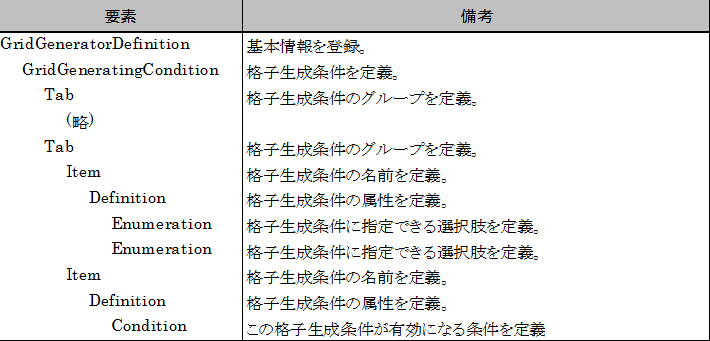
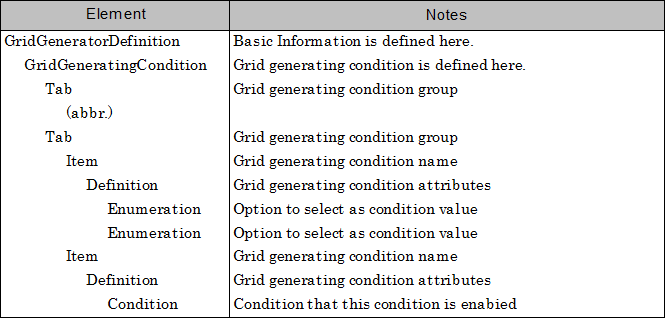
Developer manual updated.

diff --git a/source/05/04/tab.rst b/source/05/04/tab.rst
@@ -1,40 +1,41 @@
 Tab
 ===
 
-計算条件 (もしくは格子生成条件) 設定ダイアログの、ページの定義情報を保持します。
+Tab element contains the information that defines a page of the
+calculation condition input dialog.
 
-例
-----
+Example
+-------
 
 .. code-block:: xml
-   :caption: Tab の定義例
+   :caption: Example of Tab definition
    :name: ref_tab_example
    :linenos:
 
    <Tab caption="Basic Setting">
      <Item name="stime" caption="Start Time">
 
-       (略)
+       (abbr.)
 
      </Item>
      <Item name="etime" caption="End Time">
 
-       (略)
+       (abbr.)
 
      </Item>
    </Tab>
 
-属性
------
+Attributes
+----------
 
-.. csv-table:: Tab の属性
+.. csv-table:: Attributes of Tab
    :file: tab_attributes.csv
    :header-rows: 1
 
-子要素
---------
+Child elements
+--------------
 
-.. csv-table:: Tab の子要素
+.. csv-table:: Child elements of Tab
    :file: tab_elements.csv
    :header-rows: 1
 

diff --git a/source/04/03_gridgenerator.rst b/source/04/03_gridgenerator.rst
@@ -27,14 +27,14 @@ generating program do against the grid generating data file.
    :file: gridgenerator_dev_flow.csv
    :header-rows: 1
 
+In this section, we will develop a grid generating program in
+the following procedure:
 
-この節では、格子生成プログラムを以下の手順で作成します。
-
-#. 骨組みの作成
-#. 格子生成データファイルを開く処理、閉じる処理の記述
-#. 格子の出力処理の記述
-#. 格子生成条件の読み込み処理の記述
-#. エラー処理の記述
+#. Create a scelton
+#. Adds grid generating data file opening and closing codes
+#. Adds codes to output grid
+#. Adds codes to load grid generating conditions
+#. Adds codes for error handling
 
 .. toctree::
    :maxdepth: 4

diff --git a/source/05/04/param.rst b/source/05/04/param.rst
@@ -19,7 +19,7 @@ Refer to :ref:`cc_widget_example_func` for Param element definition example.
 Attributes
 -----------
 
-.. csv-table:: Attributes of Param definition
+.. csv-table:: Attributes of Param
    :file: param_attributes.csv
    :header-rows: 1
 

diff --git a/source/05/04/groupbox.rst b/source/05/04/groupbox.rst
@@ -35,6 +35,6 @@ Attributes
 Child elements
 --------------
 
-.. csv-table:: Attributes of GroupBox
+.. csv-table:: Child elements of GroupBox
    :file: groupbox_elements.csv
    :header-rows: 1
